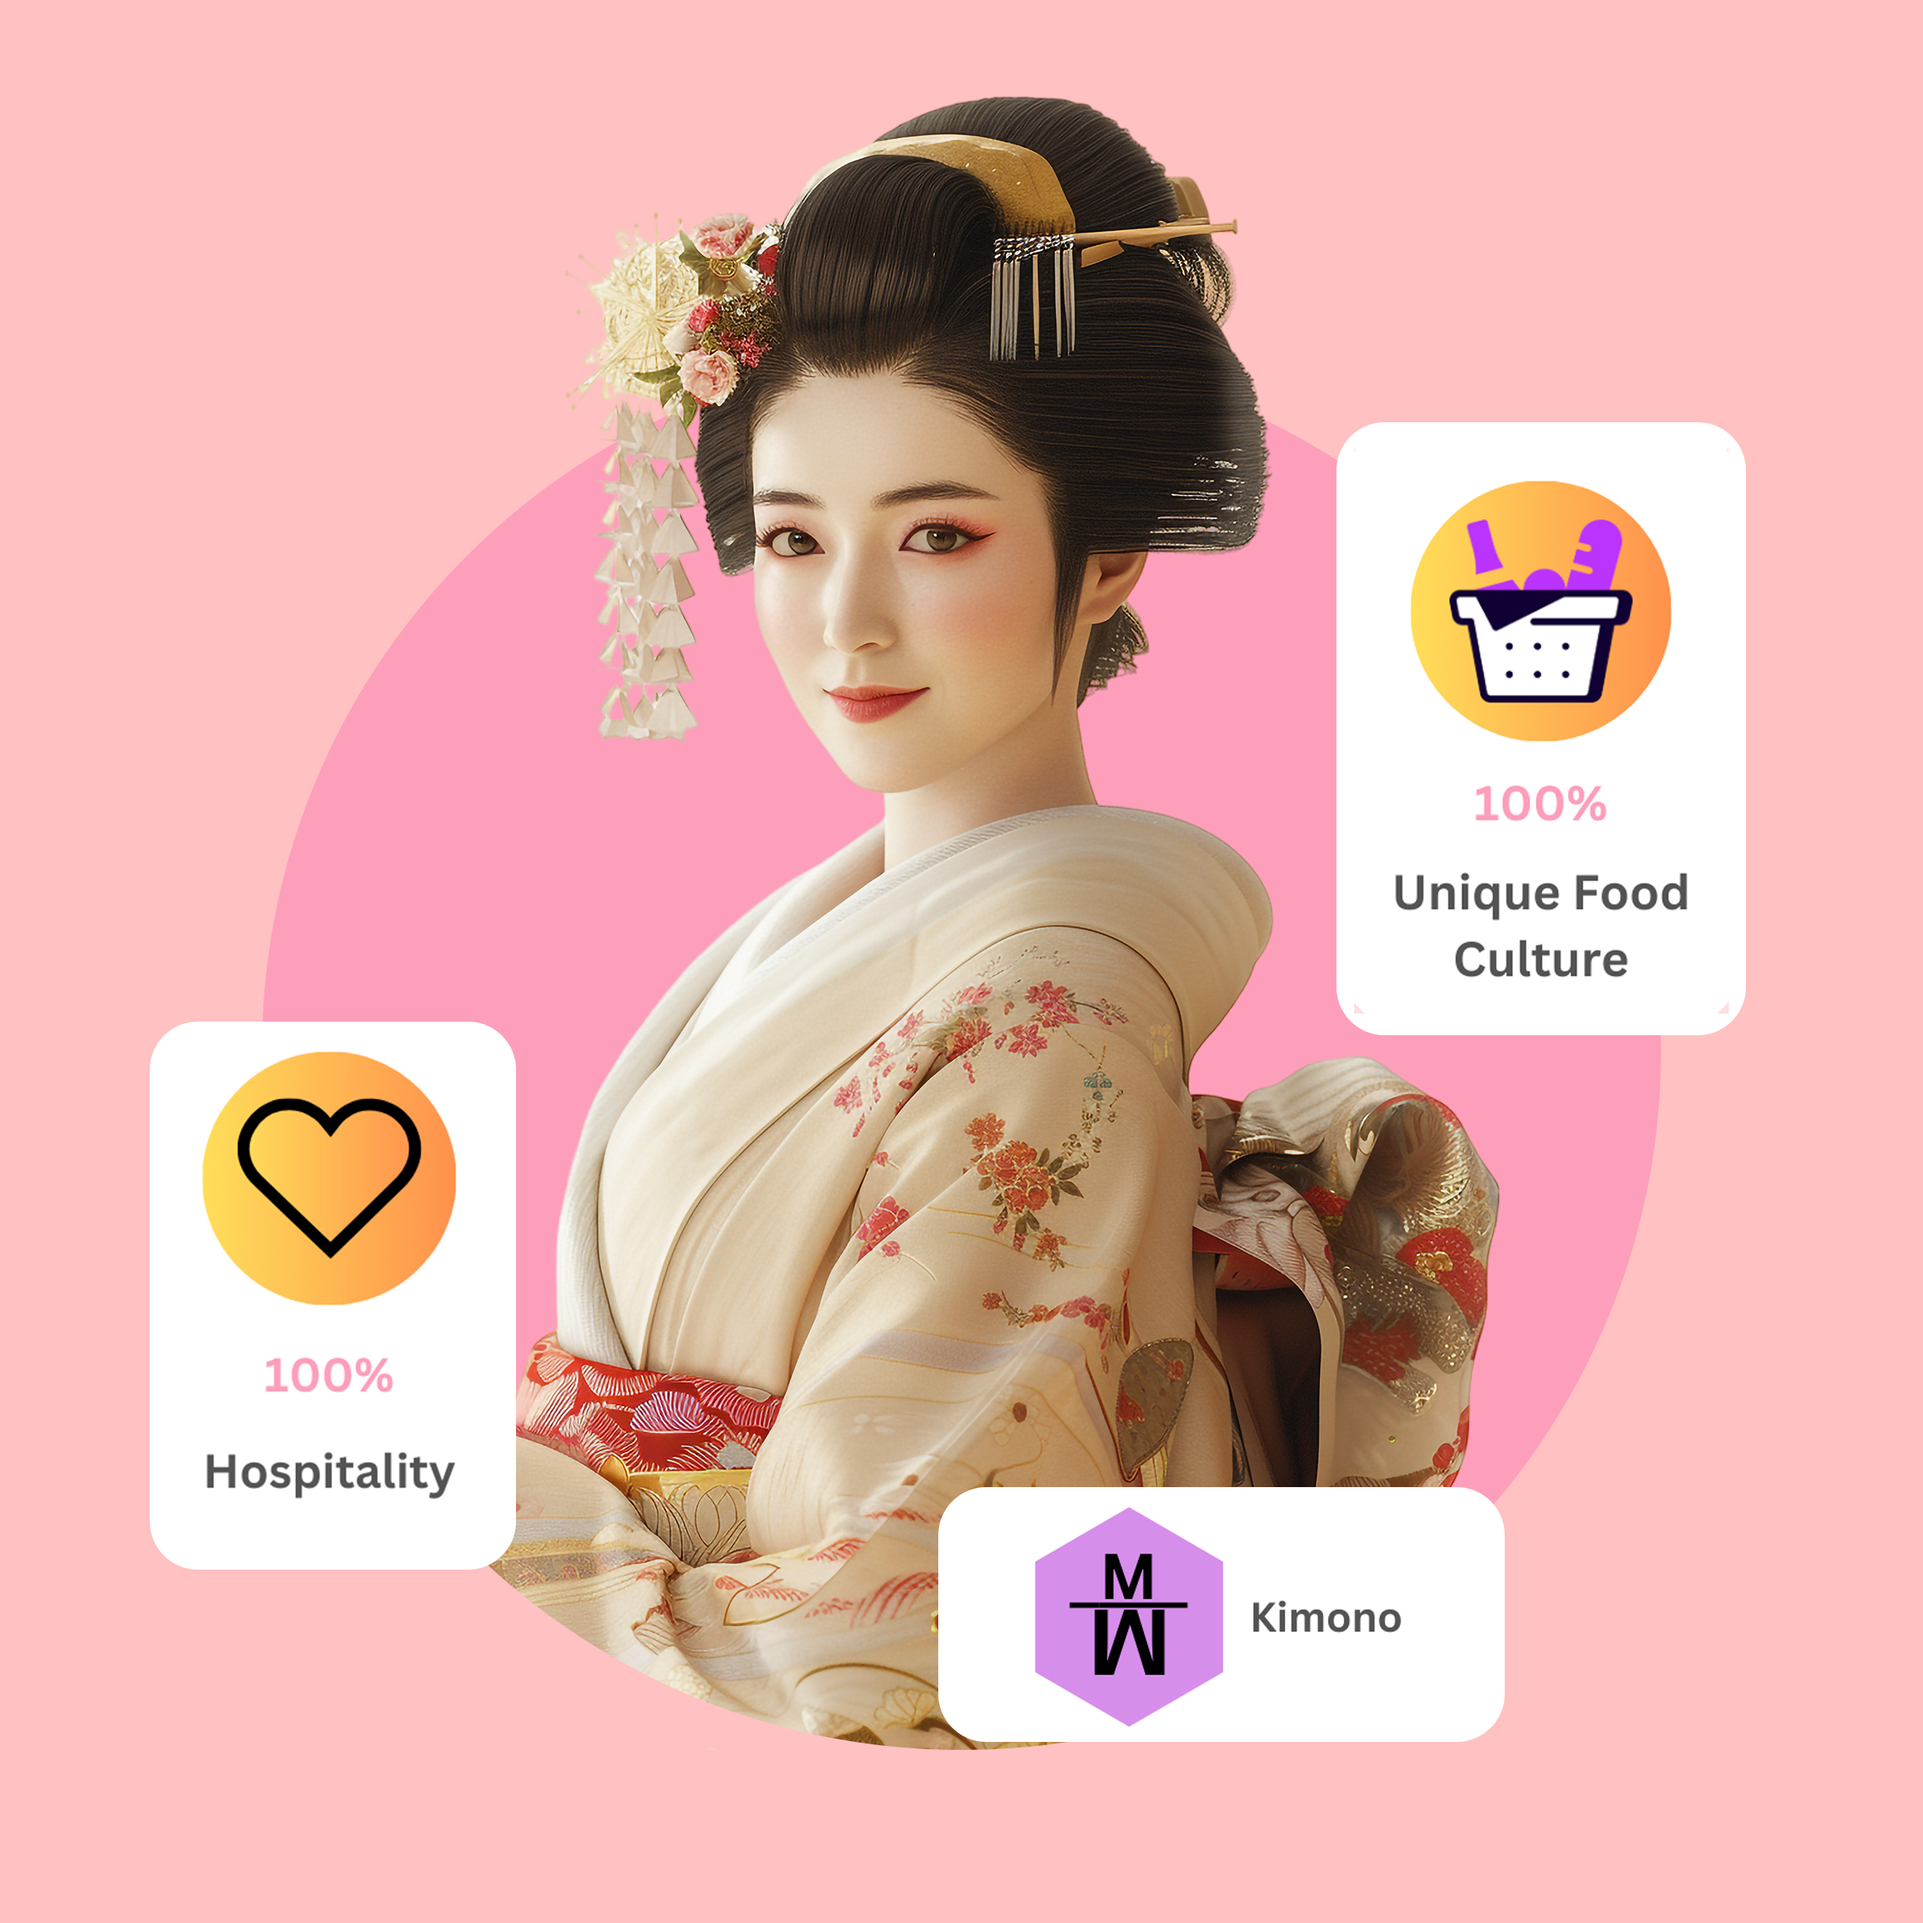
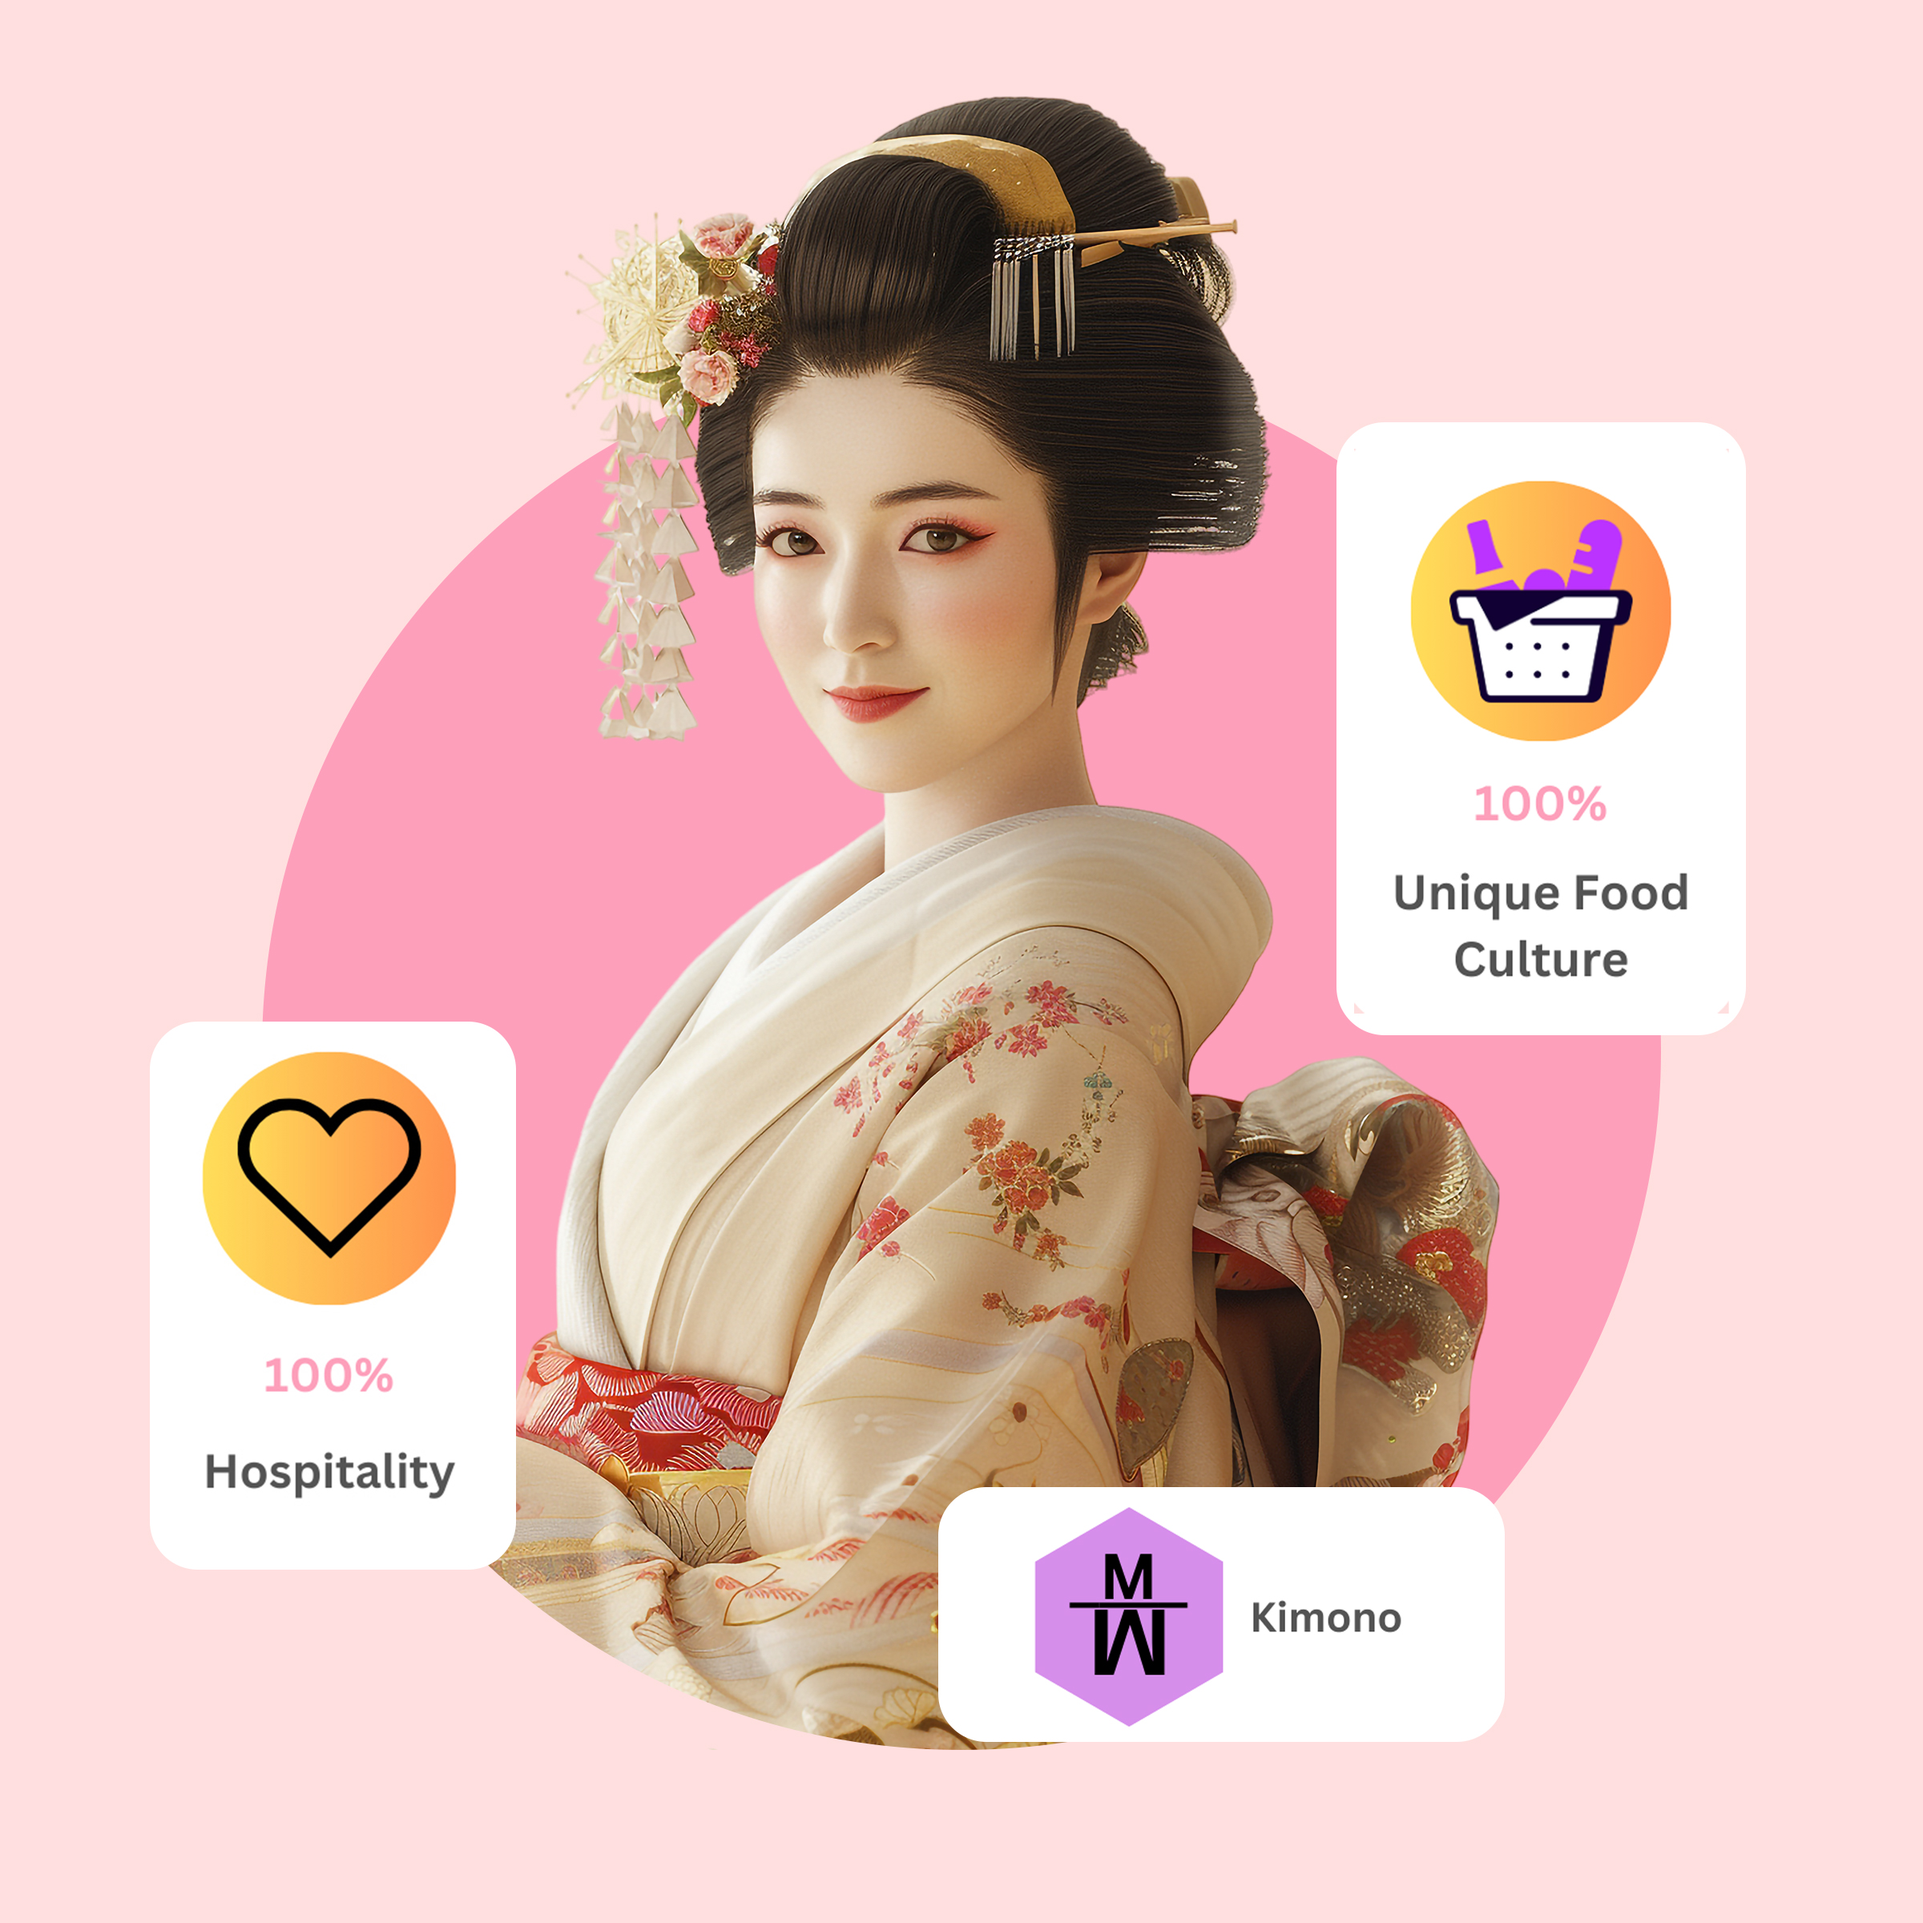
Assignment 01

diff --git a/index.html b/index.html
@@ -32,12 +32,26 @@
     </table>
     <table>
         <tr>
-            <td colspan="2">
+            <td>
                 <p>Categories</p>
                 <p>Here are lots of interesting destinations to visit, but don't be confused-they're already
                     grouped by category.</p>
             </td>
+            <td></td>
+            <td></td>
+            <td></td>
+            <td></td>
+            <td></td>
+            <td></td>
+            <td></td>
+            <td></td>
+            <td></td>
+            <td></td>
+            <td></td>
+            <td></td>
         </tr>
+    </table>
+    <table>
         <tr>
             <td><img src="" alt=""></td>
             <td><img src="" alt=""></td>
@@ -45,6 +59,14 @@
             <td><img src="" alt=""></td>
             <td><img src="" alt=""></td>
             <td><img src="" alt=""></td>
+        </tr>
+        <tr>
+            <td>Tokyo Tower</td>
+            <td>Kinkaku-ji Golden Pavilion</td>
+            <td>Fushimi Inari Taisha</td>
+            <td>Osaka Castle</td>
+            <td>Nara Park</td>
+            <td>Universal Studios</td>
         </tr>
     </table>
     <table width="100%">
@@ -54,21 +76,29 @@
             </td>
             <td>
                 <p>Historical of Japan</p>
-    <p>From Ancient Times to Modern Power</p>
-    <p>Japan's early history dates back to the Jomon period (14,000 B.C.-300 B.C.), with a hunter-gatherer society known
-        for pottery. The Yayoi period (300 B.C.-300 A.D.) introduced rice cultivation and metalworking, while the Kofun
-        period (300-538 A.D.) saw the rise of powerful clans. Buddhism arrived in the 6th century, shaping Japanese
-        culture and governance during the Asuka and Nara periods. The Heian period (794-1185 A.D.) was a cultural golden
-        age.
-        Feudal Japan emerged in the 12th century, with samurai and shogunates ruling. The Tokugawa Shogunate (1603-1868
-        A.D.) brought peace and isolation until Western powers forced Japan to open in the mid-19th century. The Meiji
-        Restoration in 1868 led to rapid modernization. Japan became a world power, expanding its empire in the early
-        20th century but faced defeat in World War II. Today, Japan is a major economic and technological hub.</p>
+                <p>From Ancient Times to Modern Power</p>
+                <p>Japan's early history dates back to the Jomon period (14,000 B.C.-300 B.C.), with a hunter-gatherer
+                    society known
+                    for pottery. The Yayoi period (300 B.C.-300 A.D.) introduced rice cultivation and metalworking,
+                    while the Kofun
+                    period (300-538 A.D.) saw the rise of powerful clans. Buddhism arrived in the 6th century, shaping
+                    Japanese
+                    culture and governance during the Asuka and Nara periods. The Heian period (794-1185 A.D.) was a
+                    cultural golden
+                    age.
+                    Feudal Japan emerged in the 12th century, with samurai and shogunates ruling. The Tokugawa Shogunate
+                    (1603-1868
+                    A.D.) brought peace and isolation until Western powers forced Japan to open in the mid-19th century.
+                    The Meiji
+                    Restoration in 1868 led to rapid modernization. Japan became a world power, expanding its empire in
+                    the early
+                    20th century but faced defeat in World War II. Today, Japan is a major economic and
+                    technological hub.</p>
             </td>
         </tr>
     </table>
     <p>Point of Details</p>
-    <table  width="100%" border="1">
+    <table width="100%" border="1">
         <tr>
             <th rowspan="2">Category</th>
             <th colspan="2">Details</th>
@@ -161,10 +191,13 @@
             </td>
             <td>
                 <p>Tourism And Hospitality In Japan</p>
-    <p>Japan offers a captivating blend of rich cultural heritage, modern technology, stunning landscapes, and
-        world-class hospitality. Known for its "omotenashi" culture of exceptional customer service, visitors are
-        treated with great care. Whether exploring Tokyo and Osaka's bustling cities or Kyoto's tranquil temples, Japan
-        ensures a seamless and unique experience for tourists.</p>
+                <p>Japan offers a captivating blend of rich cultural heritage, modern technology, stunning landscapes,
+                    and
+                    world-class hospitality. Known for its "omotenashi" culture of exceptional customer service,
+                    visitors are
+                    treated with great care. Whether exploring Tokyo and Osaka's bustling cities or Kyoto's tranquil
+                    temples, Japan
+                    ensures a seamless and unique experience for tourists.</p>
             </td>
         </tr>
     </table>
@@ -193,10 +226,10 @@
         </tr>
     </table>
     <p>
-        <div style="text-align: righ">
-            <img src="images/Japan Flag.jpg" alt="" width="100px">
-        </div>
-        
+    <div style="text-align: righ">
+        <img src="images/Japan Flag.jpg" alt="" width="75px">
+    </div>
+
     </p>
 
 </body>

diff --git a/css/style.css b/css/style.css
@@ -1,5 +1,5 @@
 body{
-    background-color: #ffc1c1;
+    background-color: #ffdfdf;
 }
 
 div{
